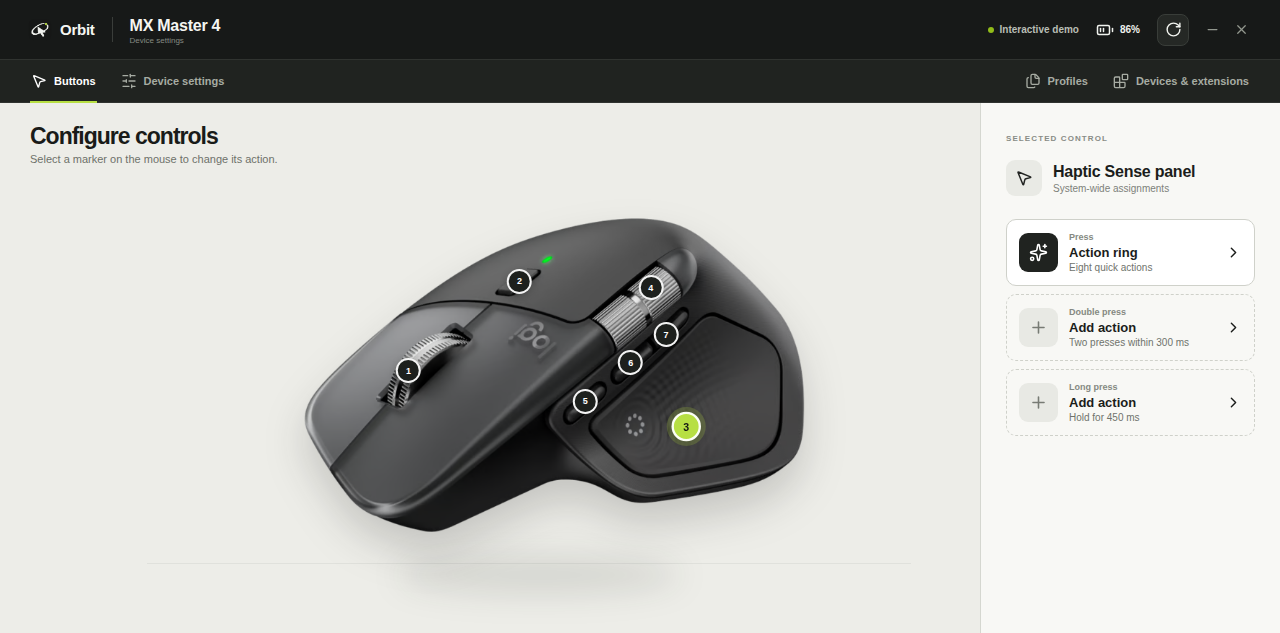
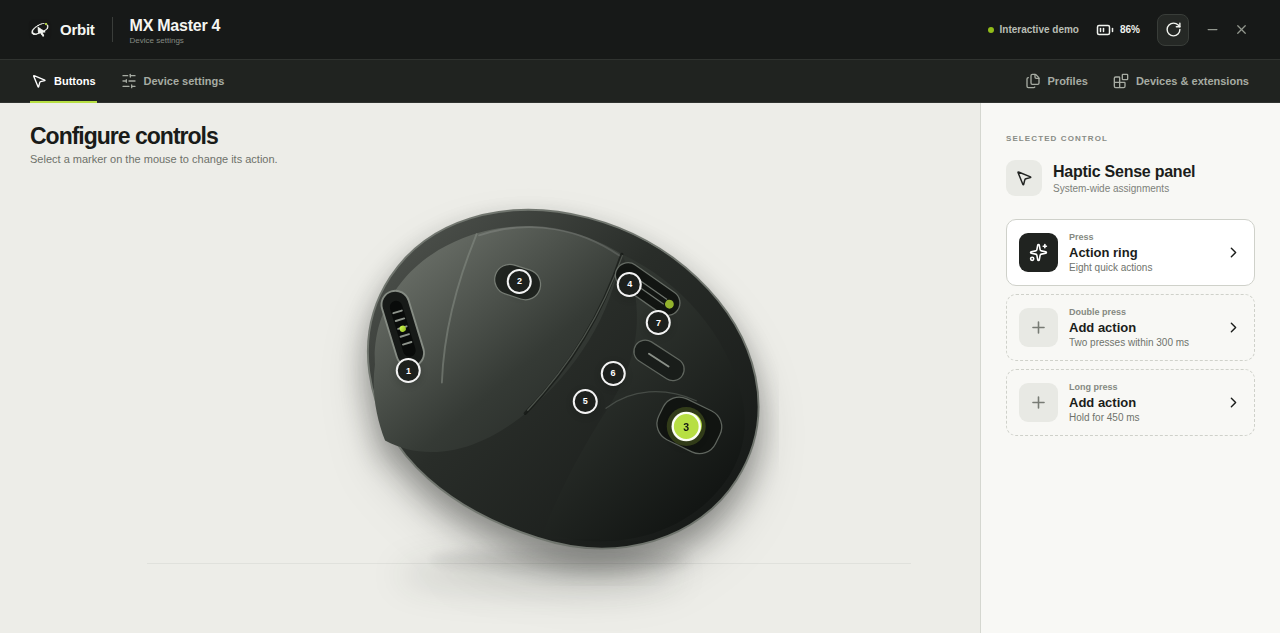
security: harden release and replace vendor artwork

Changed region(s): [[0.2188, 0.3302, 0.6562, 0.9305]]

diff --git a/src/renderer/src/components/MouseVisual.tsx b/src/renderer/src/components/MouseVisual.tsx
@@ -1,5 +1,5 @@
 import type { ControlId } from '../../../shared/device'
-import mouseImage from '../assets/mx-master-4-space-black.png'
+import mouseImage from '../assets/orbit-ergonomic-mouse.svg'
 
 interface MouseVisualProps {
   activeControl: ControlId
@@ -11,10 +11,10 @@ const hotspots: Array<{ id: ControlId; x: number; y: number; label: string; n: n
   { id: 'middle', x: 21.0, y: 49.0, label: 'Middle button on the main scroll wheel', n: 1 },
   { id: 'mode-shift', x: 43.0, y: 31.2, label: 'Top button', n: 2 },
   { id: 'haptic-panel', x: 76.0, y: 60.0, label: 'Haptic Sense panel', n: 3 },
-  { id: 'thumbwheel', x: 69.0, y: 32.5, label: 'Horizontal thumb wheel', n: 4 },
+  { id: 'thumbwheel', x: 64.8, y: 31.8, label: 'Horizontal thumb wheel', n: 4 },
   { id: 'gesture', x: 56.0, y: 55.0, label: 'Gesture button', n: 5 },
-  { id: 'forward', x: 65.0, y: 47.4, label: 'Forward', n: 6 },
-  { id: 'back', x: 72.0, y: 41.8, label: 'Back', n: 7 }
+  { id: 'forward', x: 61.5, y: 49.5, label: 'Forward', n: 6 },
+  { id: 'back', x: 70.5, y: 39.5, label: 'Back', n: 7 }
 ]
 
 export function MouseVisual({ activeControl, onControlSelect, hapticPulse }: MouseVisualProps): React.JSX.Element {
@@ -22,7 +22,7 @@ export function MouseVisual({ activeControl, onControlSelect, hapticPulse }: Mou
     <div className={`mouse-stage ${hapticPulse ? 'haptic-pulse' : ''}`}>
       <div className="mouse-aura" />
       <div className="mouse-ground-shadow" />
-      <img className="mouse-product-image" src={mouseImage} alt="Logitech MX Master 4 for Mac in Space Black" draggable={false} />
+      <img className="mouse-product-image" src={mouseImage} alt="Orbit original ergonomic mouse control diagram" draggable={false} />
 
       {hotspots.map((spot) => (
         <button

diff --git a/src/renderer/src/assets.d.ts b/src/renderer/src/assets.d.ts
@@ -2,3 +2,8 @@ declare module '*.png' {
   const source: string
   export default source
 }
+
+declare module '*.svg' {
+  const source: string
+  export default source
+}

diff --git a/README.md b/README.md
@@ -23,7 +23,8 @@ Download the package for your distribution from the **[latest GitHub release](ht
 |---|---|---|
 | Any modern x86-64 Linux | `.AppImage` | `chmod +x Orbit-Mouse-Studio-*.AppImage && ./Orbit-Mouse-Studio-*.AppImage` |
 | Ubuntu, Debian, Mint, Pop!_OS | `.deb` | `sudo apt install ./Orbit-Mouse-Studio-*.deb` |
-| Fedora, RHEL, Rocky, openSUSE | `.rpm` | `sudo dnf install ./Orbit-Mouse-Studio-*.rpm` |
+| Fedora, RHEL, Rocky | `.rpm` | `sudo dnf install ./Orbit-Mouse-Studio-*.rpm` |
+| openSUSE | `.rpm` | `sudo zypper install ./Orbit-Mouse-Studio-*.rpm` |
 
 Every release includes `SHA256SUMS.txt`. Verify a download with:
 
@@ -33,7 +34,7 @@ sha256sum --check SHA256SUMS.txt --ignore-missing
 
 ### Grant device access
 
-Orbit needs narrowly scoped access to Logitech HID++ endpoints and Linux `uinput`. Review and run the included permission installer once, then reconnect the mouse or Logi Bolt receiver:
+Orbit needs direct access to Logitech HID endpoints and Linux `uinput`. Review and run the included permission installer once, then reconnect the mouse or Logi Bolt receiver:
 
 ```bash
 curl -fsSLO https://raw.githubusercontent.com/talamar49/orbit-mouse/main/resources/install-linux-permissions.sh
@@ -41,7 +42,9 @@ less install-linux-permissions.sh
 sudo bash install-linux-permissions.sh
 ```
 
-The installer only adds rules for the Logitech Bolt receiver (`046d:c548`), Logitech Bluetooth HID++ devices, and `/dev/uinput`. If it adds your user to `plugdev`, log out and back in once.
+The installer grants `plugdev` access to the supported Bolt receiver (`046d:c548`), direct Logitech Bluetooth `hidraw` endpoints, and `/dev/uinput`. Linux Bluetooth device paths do not expose enough model detail for udev to limit the direct-device rule to MX Master 4 alone; Orbit therefore verifies HID++ device identity in the adapter before enabling device writes.
+
+> **Trust boundary:** membership in `plugdev` plus write access to `/dev/uinput` allows processes running as that user to inject keyboard and pointer events. This is required for global remapping and cannot be restricted to one desktop application through udev alone. Only install the rules on a trusted personal machine. If the installer adds your user to `plugdev`, log out and back in once.
 
 If an AppImage reports that `libfuse.so.2` is missing, either install your distribution's FUSE 2 compatibility package or run it with `APPIMAGE_EXTRACT_AND_RUN=1`.
 
@@ -85,7 +88,7 @@ Hardware testers, package maintainers, designers, documentation writers, and dri
 
 ## Development
 
-Requirements: Node.js 22+, npm, `libusb-1.0` development headers, and `libudev` development headers.
+Requirements: Node.js 22.12.0 or newer, npm, `libusb-1.0` development headers, and `libudev` development headers.
 
 ```bash
 git clone https://github.com/talamar49/orbit-mouse.git

diff --git a/CONTRIBUTING.md b/CONTRIBUTING.md
@@ -11,7 +11,7 @@ Thanks for helping make advanced peripherals work well on Linux.
 
 ## Development setup
 
-Install Node.js 22+, npm, the `libusb-1.0` development package, and `libudev` development headers.
+Install Node.js 22.12.0 or newer, npm, the `libusb-1.0` development package, and `libudev` development headers.
 
 ```bash
 npm ci
